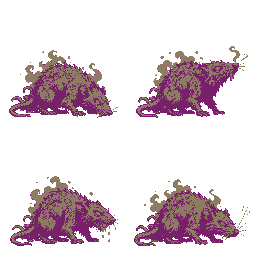
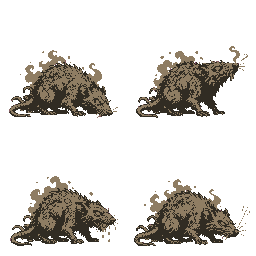
v1.0 잔여 유닛 20시트 통합 — 신규 적·보스 전원 스프라이트 (빌드 18)
- 가시 덩굴·방패 파괴자·거울 정령·굴착 벌레·부패 술사·쌍둥이 검사·동면 골렘 +
  보스 3종(거미 여왕·강철 파괴자·심연의 용) 시트 통합 → 폴백 색 박스 제거
- 생성 불량 3종(colossus/brood/rat: 마젠타가 실루엣 내부까지 번짐) 임시 보정 —
  인페인트 + 팔레트 리맵(강철/검갈/회갈). 정상 시트 재생성 발주해 도착 시 교체 예정
- 시그니처 보라(그림자·샤먼·리치)를 일괄 제거했던 실수 즉시 복구

diff --git a/unity/Assets/Editor/TankerEditorTools.cs b/unity/Assets/Editor/TankerEditorTools.cs
@@ -31,7 +31,7 @@ namespace Tanker
             PlayerSettings.productName = "Tanker";
             PlayerSettings.SetApplicationIdentifier(UnityEditor.Build.NamedBuildTarget.iOS, "com.dongmin1213.tanker");
             PlayerSettings.bundleVersion = "1.0.0";
-            PlayerSettings.iOS.buildNumber = "17";
+            PlayerSettings.iOS.buildNumber = "18";
             PlayerSettings.iOS.appleDeveloperTeamID = "3N2543B2FD";
             PlayerSettings.iOS.appleEnableAutomaticSigning = true;
             PlayerSettings.defaultInterfaceOrientation = UIOrientation.Portrait;
